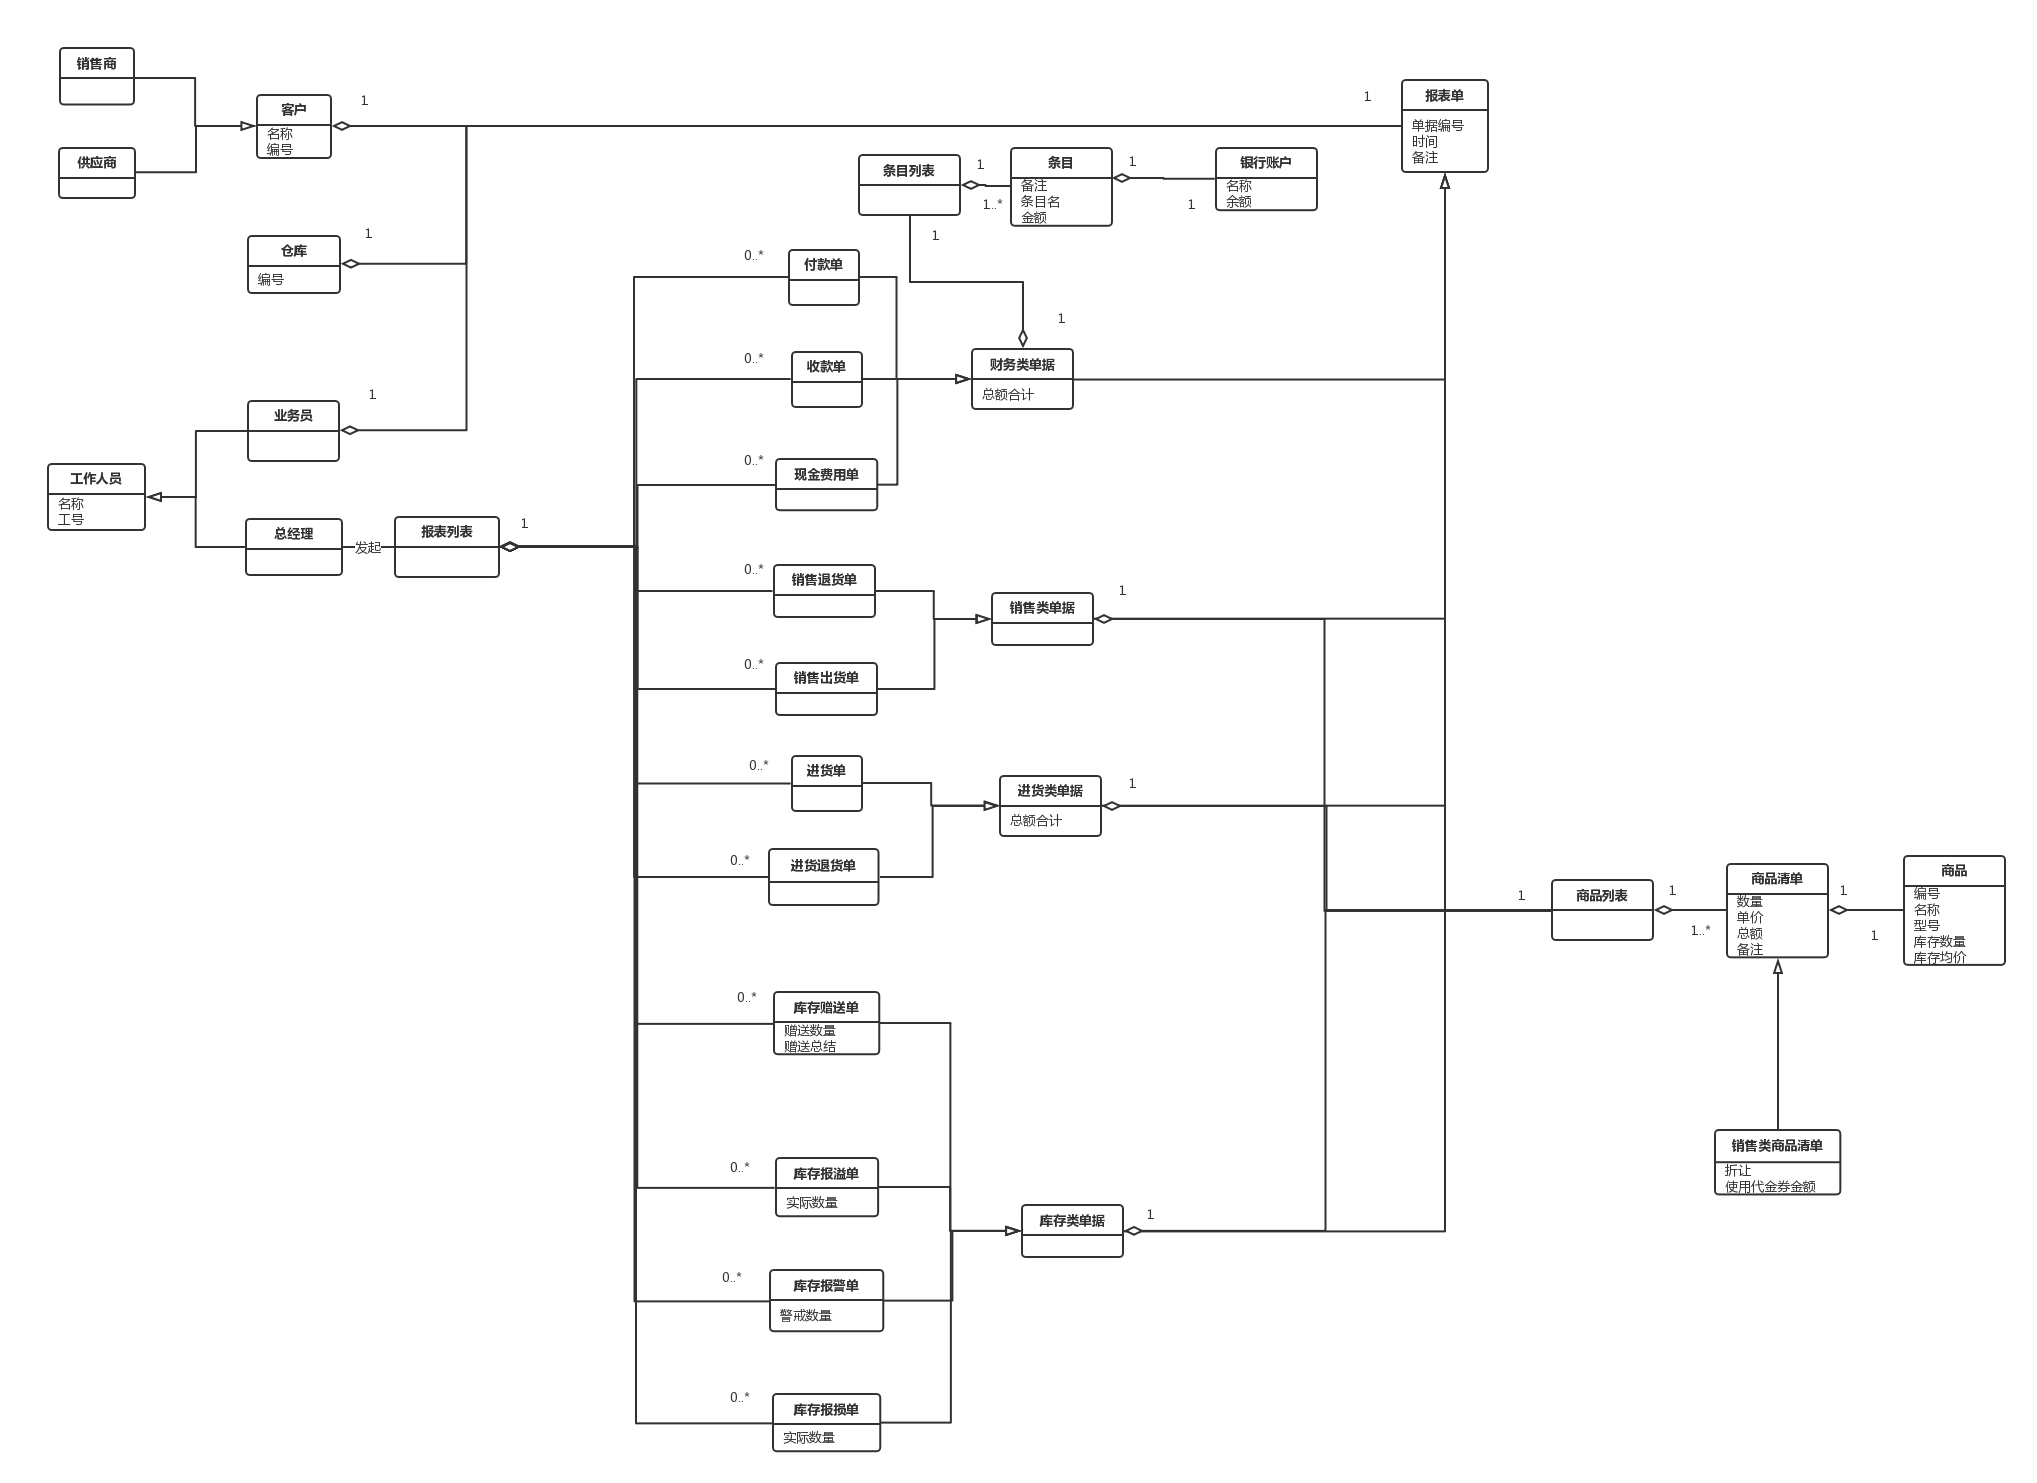
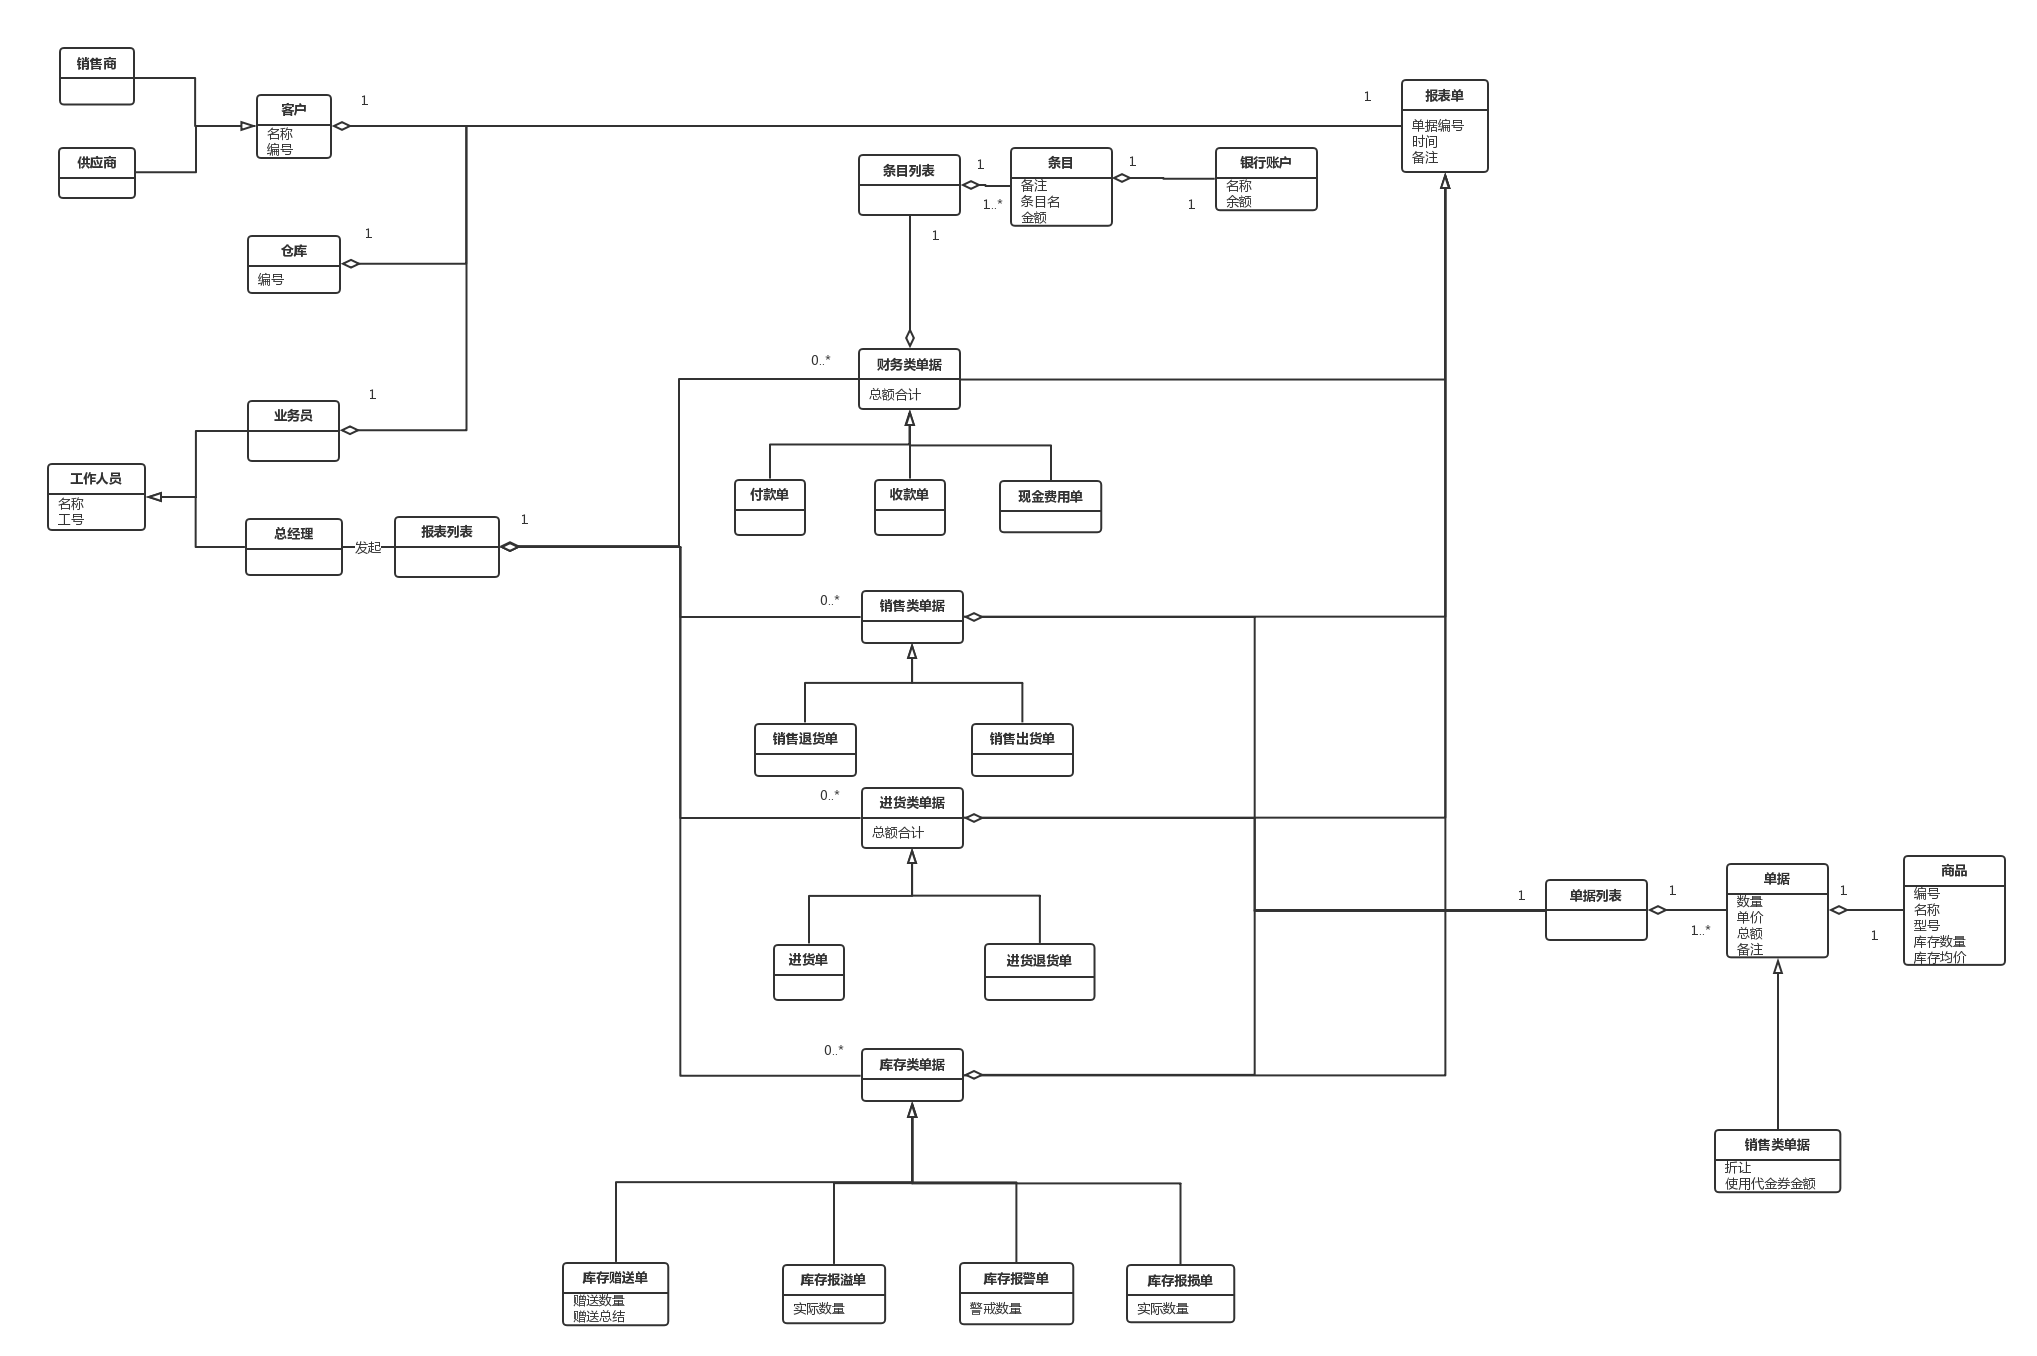
2017.9.21 19:36 同步信息

diff --git a/总经理_用例文档/总经理_用例文档.md b/总经理_用例文档/总经理_用例文档.md
@@ -11,9 +11,9 @@
 |前置条件|总经理已经被识别和授权|
 |后置条件|更改库存数据和客户的应收应付数据<br>发送消息给单据的负责人员</br>|
 |优先级|高|
-|正常流程|1、系统提示有提交状态的未处理的单据<br>2、总经理开始审批单据</br><br>3、系统显示需要被处理的单据列表，所有单据都有草稿状态，提交状态，审批后状态，系统需要显示所有的提交状态和审批后状态的单据列表</br><br>4、总经理选择待处理的单据</br><br>5、系统显示单据的所有数据</br><br>&emsp;A、库存赠送单的数据包括商品的**名称，型号，库存数量，赠送数量，库存均价，赠送总价**</br><br>&emsp;B、库存报溢单，库存报损单的数据包括商品的**名称，型号，实际数量，库存数量**</br><br>&emsp;C、库存报警单的数据包括商品的**名称，型号，库存数量，警戒数量**</br><br>&emsp;D、进货单，进货退货单的数据包括**单据编号，供应商，仓库，操作员，入库商品列表，备注，总额合计**</br><br>&emsp;E、销售单，销售退货单的数据包括**单据编号，客户，操作员，仓库，出货商品清单，折让前总额，折让，使用代金券金额，折让后总额，备注**</br><br>&emsp;&emsp;DE中入库和出库商品列表包含的信息有：商品编号，<u>名称（从商品选择界面进行选择）</u>，型号，<u>数量（手动输入）</u>，<u>单价（默认为商品信息中的进价）</u>，金额，<u>备注（手动输入）</u>。**没有下划线的部分是自动计算并填充进去的，自动修改**</br><br>&emsp;F、收款单，付款单的数据包括**单据编号，客户（同时包含供应商和销售商），操作员，转账列表，总额汇总**。转账列表中的一项包括：**银行账户，转账金额，备注**</br><br>&emsp;G、现金费用单的数据包括**单据编号，操作员，银行账户，条目清单，总额**。条目清单中包括：**条目名，金额，备注**</br><br>6、总经理修改单据数据</br><br>7、总经理通过单据审批</br><br>8、系统显示还需要审批的单据列表和已审批的单据列表</br><br>*总经理重复4~8步，直到审批完所有的单据*</br>|
+|正常流程|1、系统提示有提交状态的未处理的单据<br>2、总经理开始审批单据</br><br>3、系统显示需要被处理的单据列表，所有单据都有草稿状态，提交状态，审批后状态，系统需要显示所有的提交状态和审批后状态的单据列表</br><br>4、总经理选择待处理的单据</br><br>5、系统显示单据的所有数据</br><br>6、总经理修改单据数据</br><br>7、总经理通过单据审批</br><br>8、系统显示还需要审批的单据列表和已审批的单据列表</br><br>*总经理重复4~8步，直到审批完所有的单据*</br>|
 |扩展流程|7a、总经理不通过单据审批<br>&emsp; 审批后状态更改为“未通过”|
-|特殊要求|5.E、销售单，销售退货单中，**销售员最多折让1000元，销售经理可以折让5000元，总经理可以任意金额的折让**<br>7、总经理可以批量审批</br>|
+|特殊要求|5. 需要显示的单据的数据包括**单据编号，时间**，包括<br>&emsp;A. 销售类单据，数据包括**客户，业务员，仓库，出货商品清单，折让前总额，折让，使用代金券金额，折让后总额，备注**，销售员最多折让1000元，销售经理可以折让5000元，总经理可以任意金额的折让</br><br>&emsp;&emsp;1. 销售出货单</br><br>&emsp;&emsp;2. 销售退货单</br><br>&emsp;B. 进货类单据，入库和出库商品列表包含的信息有：**商品编号，<u>名称（从商品选择界面进行选择）</u>，型号，<u>数量（手动输入）</u>，<u>单价（默认为商品信息中的进价）</u>，金额，<u>备注（手动输入）</u>**。没有下划线的部分是自动计算并填充进去的，自动修改</br><br>&emsp;&emsp;1. 进货单，数据包括**入库商品列表**</br><br>&emsp;&emsp;2. 进货退货单，数据包括**出库商品列表**</br><br>&emsp;&emsp;&emsp;B.1 B.2 数据包括**供应商，仓库，业务员，备注，总额合计**</br><br>&emsp;C. 财务类单据</br><br>&emsp;&emsp;1. 付款单</br><br>&emsp;&emsp;2. 收款单</br><br>&emsp;&emsp;&emsp;C.1 C.2 数据包括**客户（同时包含供应商和销售商），业务员，转账列表，总额汇总**，转账列表中的一项包括：**银行账户，转账金额，备注**</br><br>&emsp;&emsp;3. 现金费用单，数据包括**业务员，银行账户，条目清单，总额**。条目清单中包括：**条目名，金额，备注**</br><br>&emsp;D. 库存类单据</br><br>&emsp;&emsp;1. 库存报溢单，数据包括**商品，实际数量**</br><br>&emsp;&emsp;2. 库存报损单，数据包括**商品，实际数量**</br><br>&emsp;&emsp;3. 库存赠送单，数据包括**商品，赠送数量，库存均价，赠送总价**</br><br>&emsp;&emsp;4. 库存报警单，数据包括**商品，警戒数量**</br><br>&emsp;&emsp;&emsp;**商品**的数据包括**名称，型号，库存数量**</br><br>7、总经理可以批量审批</br>|
 
 |ID||
 |:-|:-|
@@ -29,7 +29,7 @@
 |优先级|低|
 |正常流程|1、经理查询报表情况<br>2、系统显示报表列表</br><br>3、经理输入筛选条件</br><br>4、系统显示符合筛选条件的报表列表</br><br>5、选择报表</br><br>6、系统显示报表的详细信息</br><br>经理重复4~6步，直到完成报表查看</br>|
 |扩展流程|7.0、经营历程表的红冲操作<br>&emsp;**红冲**的具体操作就是：生成一个一模一样但是仅仅把数量取负数的单子并入账，以此来抵消之前的单子。</br><br>7.1、经营历程表的红冲并复制操作</br><br>&emsp;**红冲并复制**的操作是在红冲的基础上，新建一张以之前单子为模板的草稿单，给用户以编辑的机会</br><br>7.2、导出表单</br>|
-|特殊要求|2、报表类型分为**销售明细表，经营历程表，经营情况表**<br>&emsp;**2a、销售明细表：**</br><br>&emsp;&emsp;统计一段时间内商品的销售情况（应该就是查询销售出货单据记录）</br><br>&emsp;**2b、经营历程表：**</br><br>&emsp;&emsp;查看一段时间里的所有单据</br><br>&emsp;&emsp;单据分为：</br><br>&emsp;&emsp;1、销售类单据（销售出货单，销售退货单）</br><br>&emsp;&emsp;2、进货类单据（进货单，进货退货单）</br><br>&emsp;&emsp;3、财务类单据（付款单，收款单，现金费用单）</br><br>&emsp;&emsp;4、库存类单据（报溢单，报损单，赠送单）</br><br>&emsp;**2c、经营情况表：**</br><br>&emsp;&emsp;统计显示一段时间内的经营收支状况和利润。</br><br>&emsp;&emsp;经营收入显示为折让后，并显示出折让了多少。</br><br>&emsp;&emsp;**显示信息：**</br><br>&emsp;&emsp;&emsp;**2c.1、收入类：销售收入、商品类收入**（商品报溢收入 成本调价收入 进货退货差价 代金券与实际收款差额收入）。收入类显示**折让后总收入**，并显示折让了多少</br><br>&emsp;&emsp;&emsp;**2c.2、支出类：销售成本、商品类支出**（商品报损 商品赠出）。支出类显示**总支出**</br><br>&emsp;&emsp;&emsp;**2c.3、利润：折让后总收入-总支出**</br><br>3、筛选条件</br><br>&emsp;**3a、销售明细表筛选条件有：**</br><br>&emsp;&emsp;**时间区间，商品名，客户，业务员，仓库**</br><br>&emsp;&emsp;显示符合上述条件的商品销售记录，以列表形式显示，列表中包含如下信息：</br><br>&emsp;&emsp;**时间（精确到天），商品名，型号，数量，单价，总额**</br><br>&emsp;**3b、经营历程表筛选条件为：**</br><br>&emsp;&emsp;**时间区间，单据类型，客户，业务员，仓库**</br><br>7、经营里程表的红冲和红冲并复制操作只能由财务人员进行，总经理无权限进行</br>|
+|特殊要求|2. 报表类型分为**销售明细表，经营历程表，经营情况表**<br>&emsp;2a. 销售明细表：</br><br>&emsp;&emsp;统计一段时间内商品的销售情况</br><br>&emsp;&emsp;筛选条件包括：</br><br>&emsp;&emsp;**时间区间，商品名，客户，业务员，仓库**</br><br>&emsp;&emsp;显示符合条件的商品销售记录，以列表形式显示，列表中的信息包括：</br><br>&emsp;&emsp;**时间（精确到天），商品名，型号，数量，单价，总额**</br><br>&emsp;2b. 经营历程表：</br><br>&emsp;&emsp;查看一段时间里的所有单据</br><br>&emsp;&emsp;单据分为：</br><br>&emsp;&emsp;**1. 销售类单据（销售出货单，销售退货单）**</br><br>&emsp;&emsp;**2. 进货类单据（进货单，进货退货单）**</br><br>&emsp;&emsp;**3. 财务类单据（付款单，收款单，现金费用单）**</br><br>&emsp;&emsp;**4. 库存类单据（库存报溢单，库存报损单，库存赠送单，库存报警单）**</br><br>&emsp;&emsp;筛选条件包括：</br><br>&emsp;&emsp;**时间区间，单据类型，客户，业务员，仓库**</br><br>&emsp;2c. 经营情况表：</br><br>&emsp;&emsp;统计显示一段时间内的经营收支状况和利润</br><br>&emsp;&emsp;显示信息：</br><br>&emsp;&emsp;**2c.1. 收入类：销售收入，商品类收入（商品报溢收入，成本调价收入，进货退货差价，代金券与实际收款差额收入）**。收入类显示折让后总收入，并显示折让金额</br><br>&emsp;&emsp;**2c.2. 支出类：销售成本，商品类支出（商品报损，商品赠出）**。支出类显示总支出</br><br>&emsp;&emsp;**2c.3. 利润**：折让后总收入-总支出</br><br>7、经营里程表的红冲和红冲并复制操作只能由财务人员进行，总经理无权限进行</br>|
 
 |ID||
 |:-|:-|
